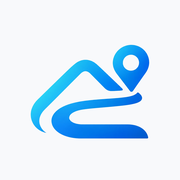
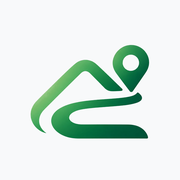
App 圖示改成綠色版本
- 主畫面與分頁圖示改用綠色設計；快取版本 v6

Changed region(s): [[0.1667, 0.25, 0.8333, 0.7778]]

diff --git a/sw.js b/sw.js
@@ -1,7 +1,7 @@
 // 離線用的 Service Worker：把 App 本身存在手機上，沒網路也能打開。
 // 行程資料的離線由 Firestore 自己的快取處理，這裡不碰。
 // 每次更新程式碼後，把 VERSION 加 1，家人的手機才會換成新版。
-const VERSION = "v5";
+const VERSION = "v6";
 const CACHE = "ftp-" + VERSION;
 const SHELL = [
   "./",
